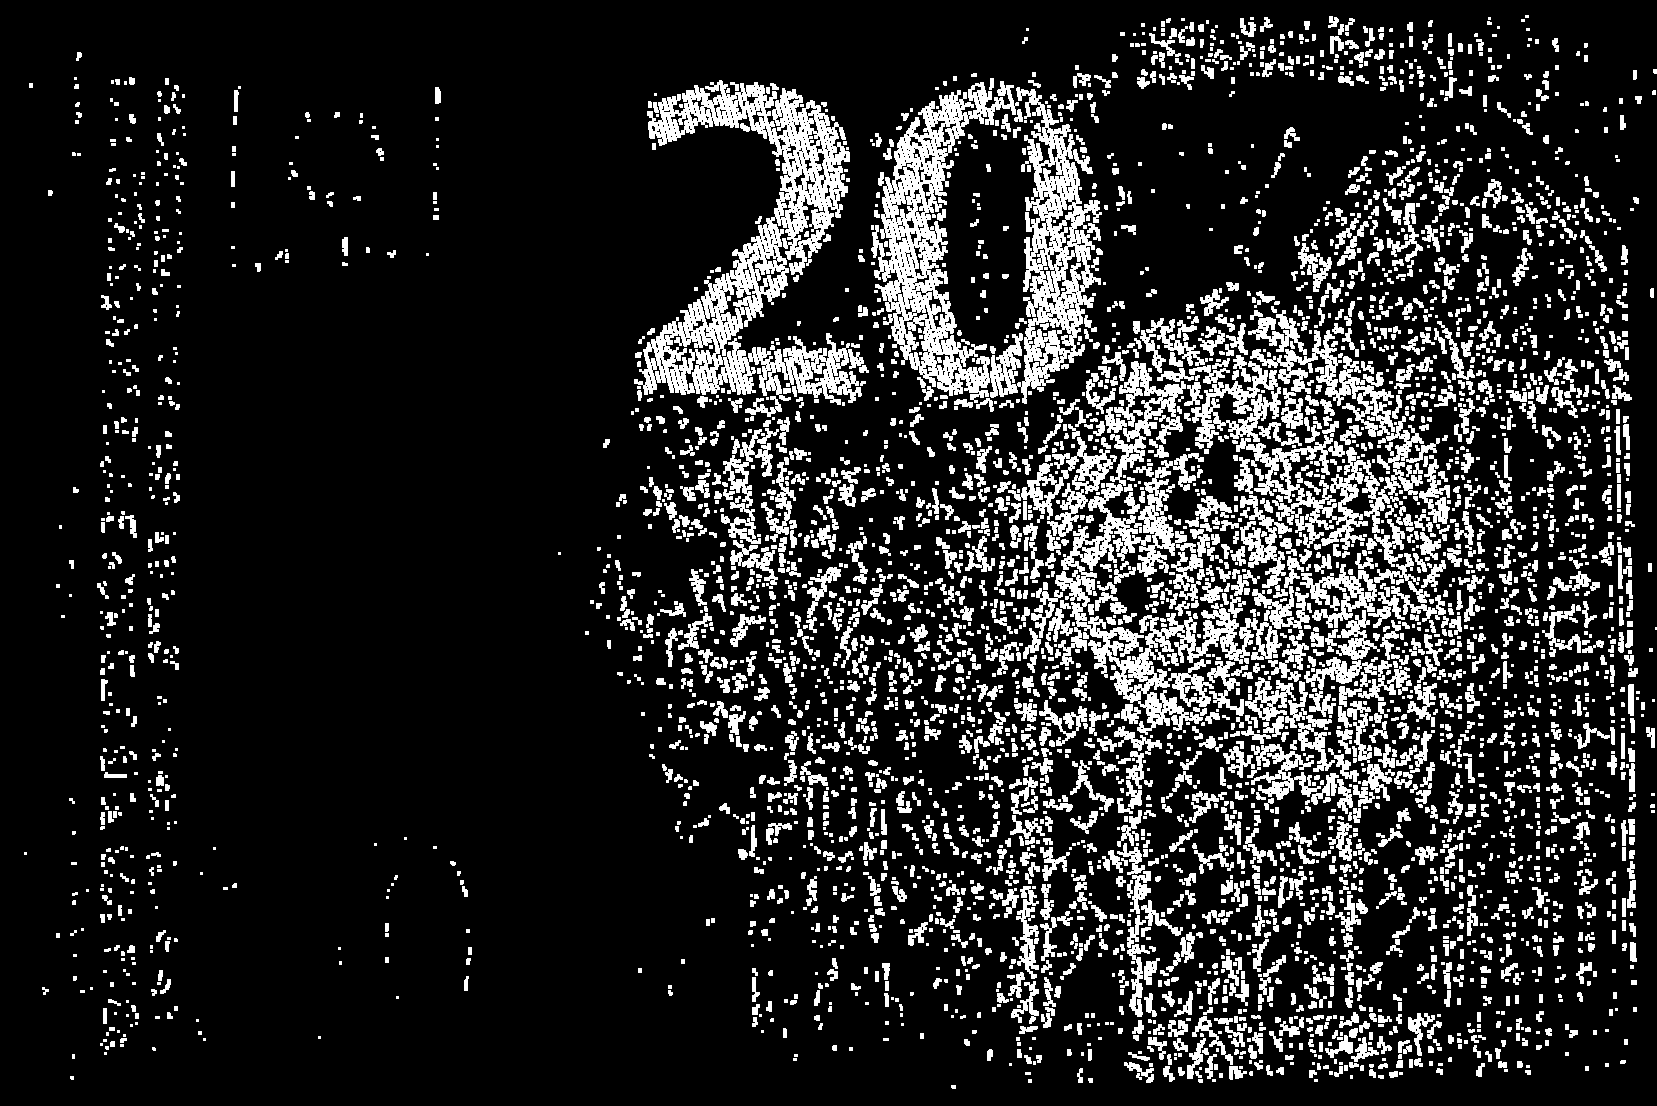
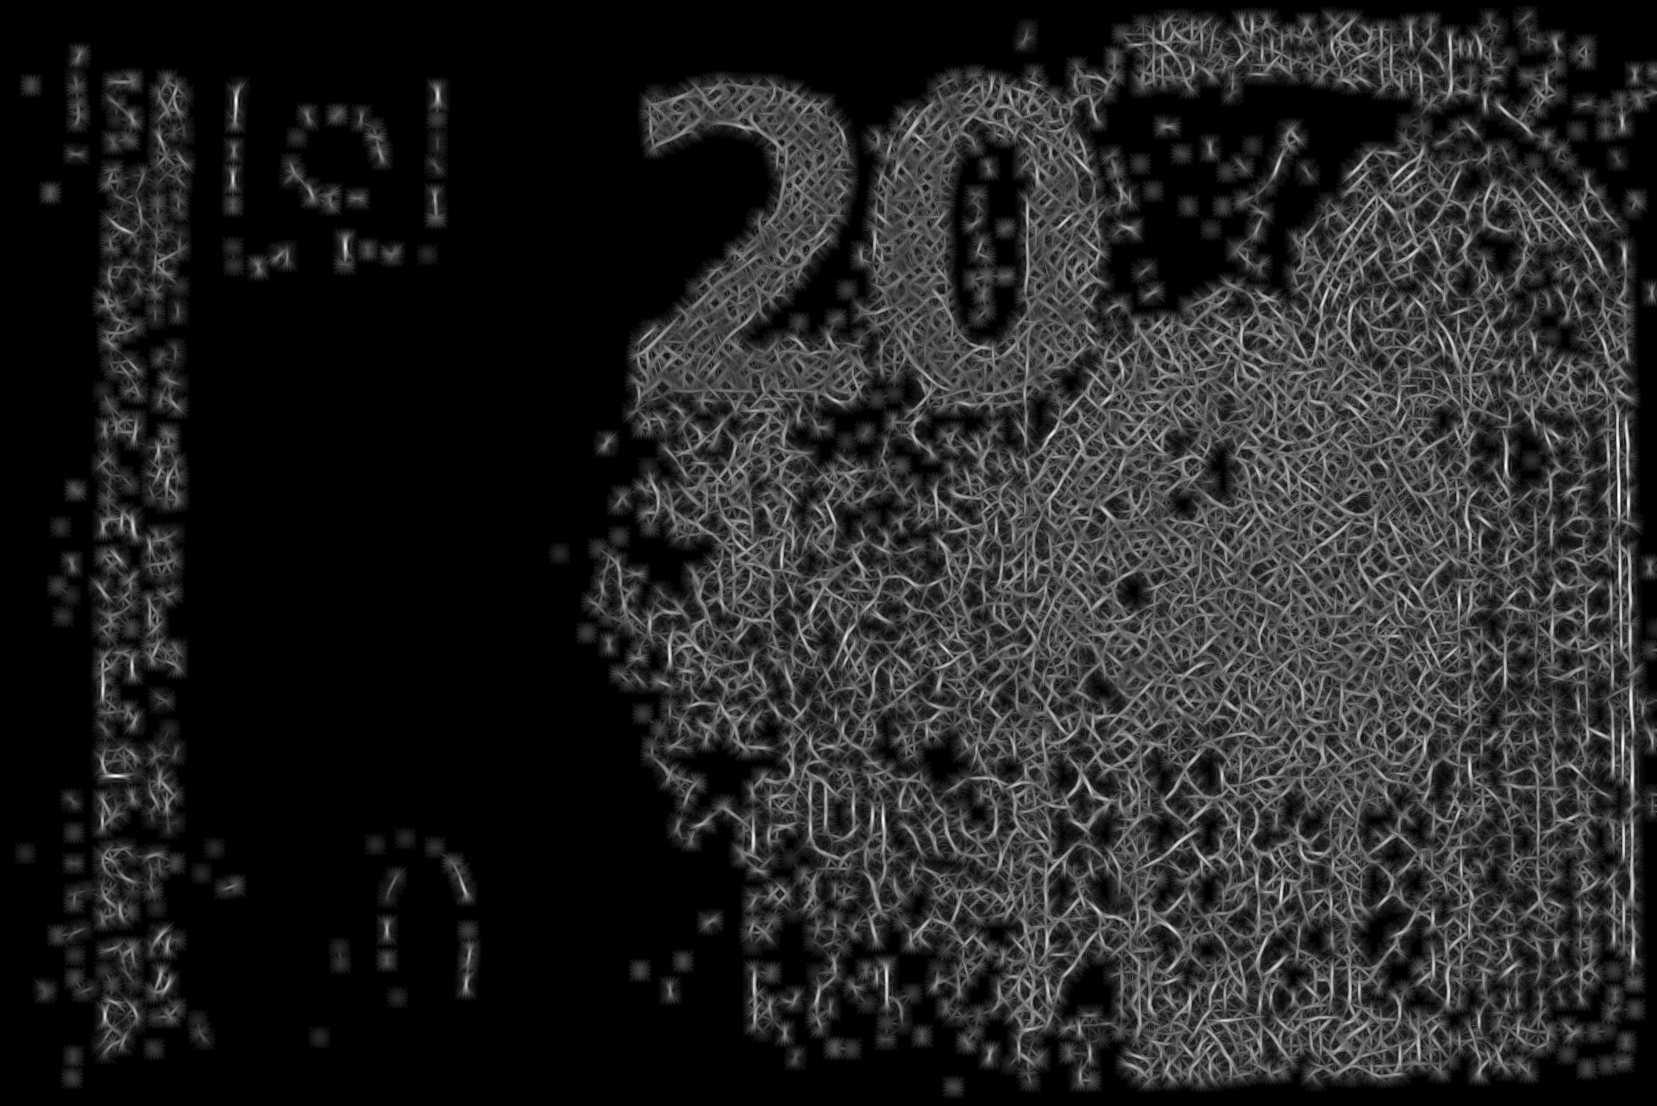
Gabor filter implemented

diff --git a/Software/scripts/Edges.py b/Software/scripts/Edges.py
@@ -122,3 +122,48 @@ def apply_laplacian_filter(image, kernel_size=3, scale=1, delta=0, debug=False):
         cv2.destroyAllWindows()
 
     return laplacian_enhanced
+
+def apply_gabor_filters(image, frequencies=[0.1, 0.2, 0.3], orientations=8, debug=False):
+    """
+    Toepassing van Gabor-filters om oriëntatie- en frequentiespecifieke texturen te detecteren.
+    Parameters:
+        image (np.ndarray): Inputbeeld (BGR of grijs)
+        frequencies (list): Ruimtelijke frequenties (1 / golflengte)
+        orientations (int): Aantal richtingen (bijv. 8 = 0°, 22.5°, ... 157.5°)
+    Returns:
+        texture_energy (np.ndarray): Gecombineerde textuursterktekaart
+    """
+    # --- 1. Converteer naar grijs ---
+    if len(image.shape) == 3:
+        gray = cv2.cvtColor(image, cv2.COLOR_BGR2GRAY)
+    else:
+        gray = image
+
+    rows, cols = gray.shape
+    accum = np.zeros_like(gray, dtype=np.float32)
+
+    # --- 2. Loop over oriëntaties en frequenties ---
+    for theta in np.linspace(0, np.pi, orientations, endpoint=False):
+        for freq in frequencies:
+            kernel = cv2.getGaborKernel(
+                ksize=(21, 21),  # grootte van filtervenster
+                sigma=4.0,       # breedte van de Gaussiaan
+                theta=theta,     # oriëntatie
+                lambd=1/freq,    # golflengte
+                gamma=0.5,       # anisotropie: 0.5 = elliptisch
+                psi=0,           # faseverschuiving
+                ktype=cv2.CV_32F
+            )
+            filtered = cv2.filter2D(gray, cv2.CV_32F, kernel)
+            accum = np.maximum(accum, filtered)  # neem maximumrespons
+
+    # --- 3. Normaliseer ---
+    texture_energy = cv2.normalize(accum, None, 0, 255, cv2.NORM_MINMAX).astype(np.uint8)
+
+    if debug:
+        cv2.imshow("Gabor Texture Map", texture_energy)
+        cv2.waitKey(0)
+        cv2.destroyAllWindows()
+
+    return texture_energy
+

diff --git a/Software/main.py b/Software/main.py
@@ -5,6 +5,7 @@ from scripts.Edges import (
     apply_canny_edge_detection,
     apply_laplacian_filter,
     compute_edge_density,
+    apply_gabor_filters,
 )
 import csv
 
@@ -55,11 +56,13 @@ for input_dir in input_dirs:
         save_image(preprocessed, preprocessed_output_dir, preprocessed_filename)
 
         # --- Stap 2: Laplacian + Canny gecombineerd ---
-        # Eerst details versterken met Laplacian
+        # 1. Versterk texturen via Laplacian
         laplacian_image = apply_laplacian_filter(preprocessed)
 
-        # Daarna randen detecteren op het versterkte beeld
-        combined_edges = apply_canny_edge_detection(laplacian_image)
+        # 2. Detecteer randen (Canny) op de Gabor-versterkte structuur
+        canny_image = apply_canny_edge_detection(laplacian_image)
+        # 3. Haal oriëntatie- en frequentiespecifieke patronen met Gabor
+        combined_edges = apply_gabor_filters(canny_image)
 
         # Sla het gecombineerde resultaat op
         combined_filename = os.path.splitext(filename)[0] + "_edges_combined.png"
